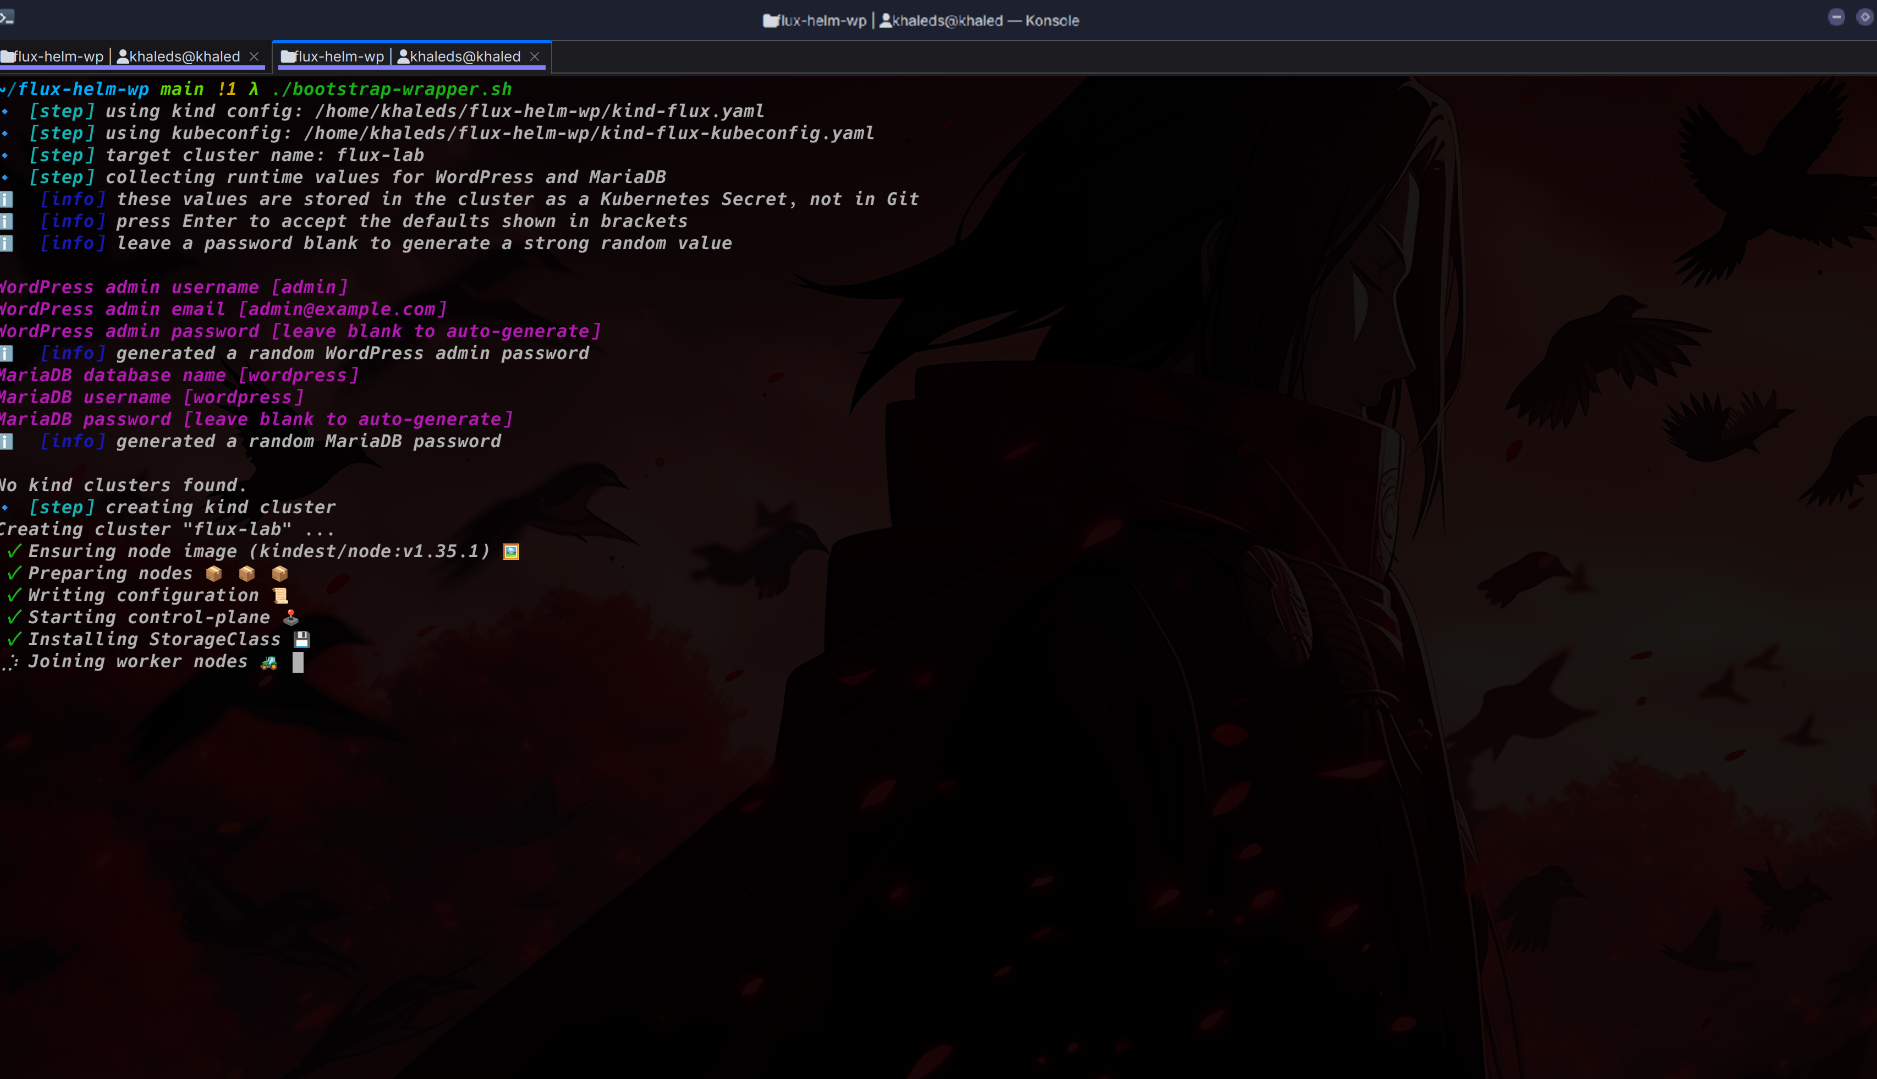
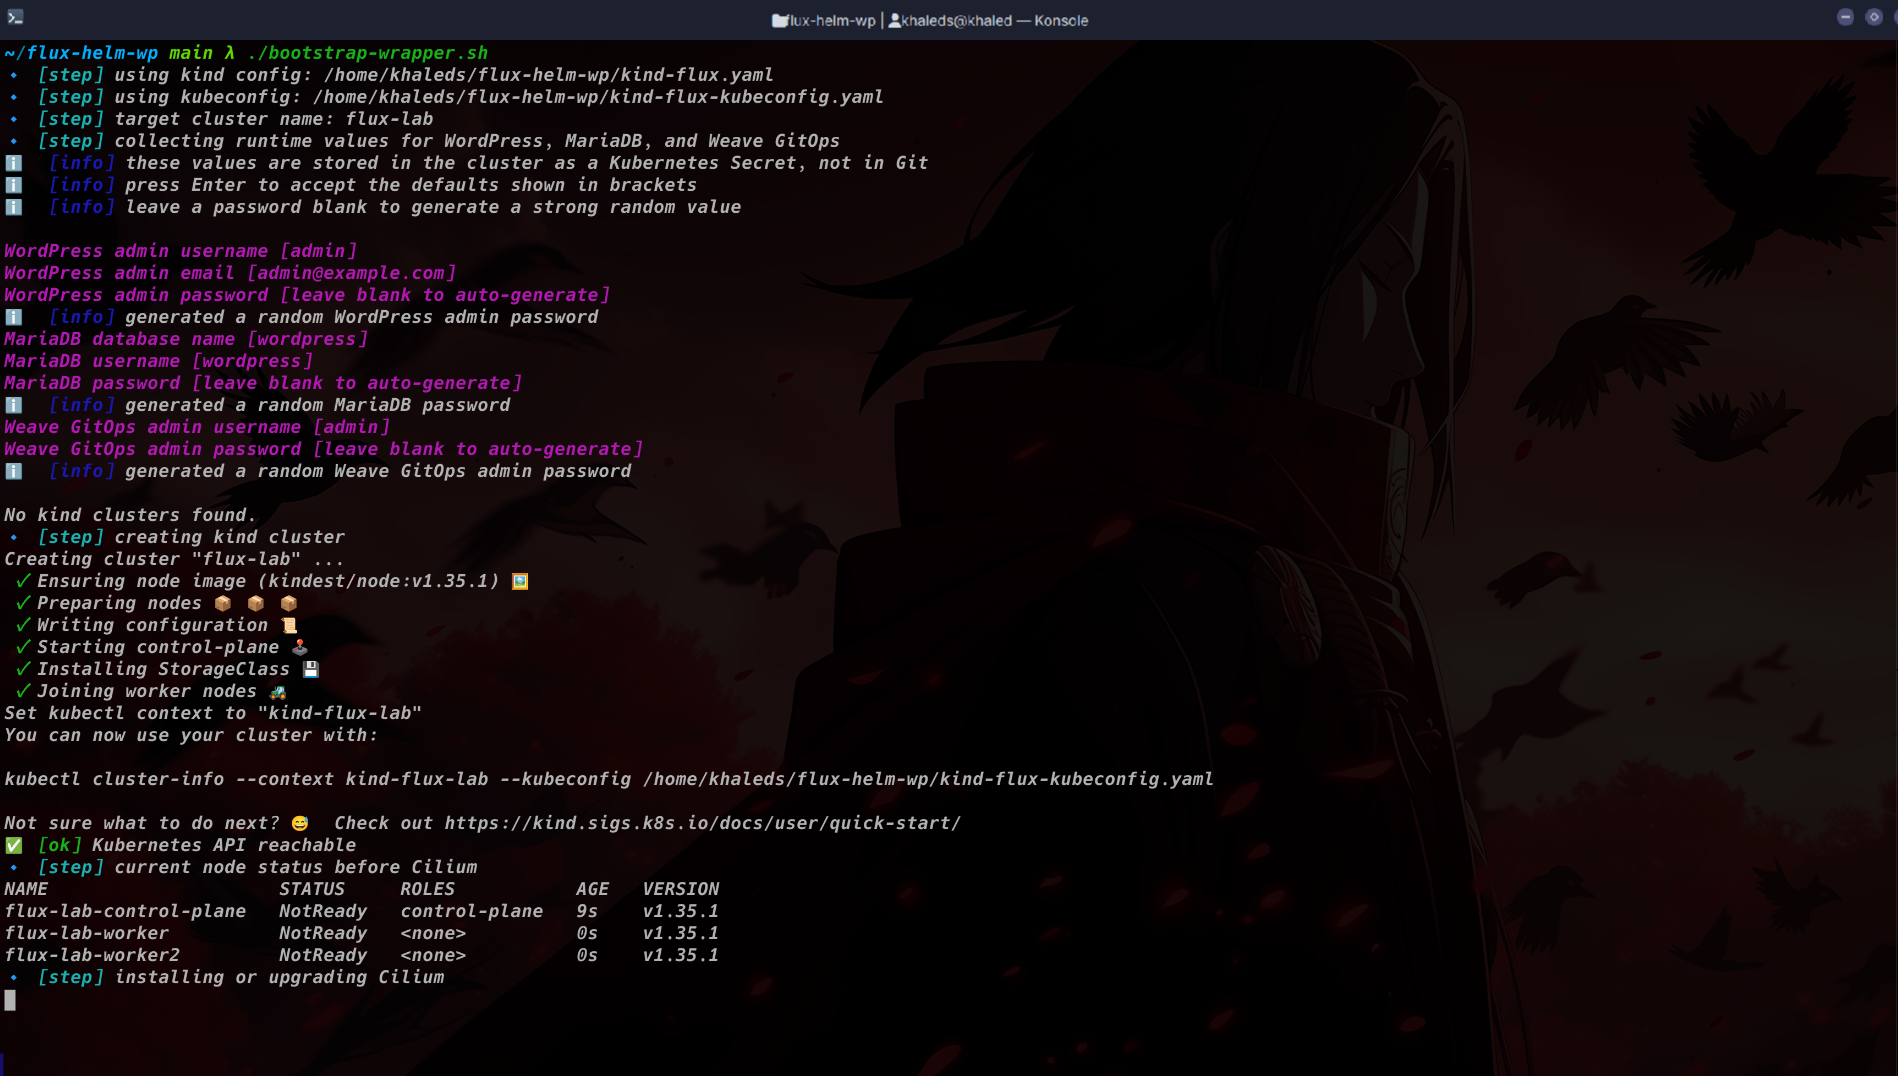
Refactor code structure for improved readability and maintainability

Changed region(s): [[0.0, 0.0, 1.0, 0.9507], [0.3399, 0.7974, 0.3708, 0.8894]]

diff --git a/README.md b/README.md
@@ -85,11 +85,17 @@ This shows the exact `kubectl` commands used to recover the values later, includ
 
 ![Retrieving credentials from the runtime Secret](assets/image-6.png)
 
-### 7. WordPress admin dashboard after login
+### 7. Weave GitOps OSS applications view after login
 
-This is the final result after visiting `/wp-admin` and logging in with the values stored in `wordpress-runtime-values`.
+This shows the Weave GitOps OSS dashboard after port-forwarding `svc/ww-gitops-weave-gitops` on port `9001` and logging in with the values stored in `weave-gitops-runtime-values`. It gives you a Flux-focused UI view of Kustomizations, sources, and application health.
 
-![WordPress admin dashboard](assets/image-7.png)
+![Weave GitOps OSS applications view](assets/image-7.png)
+
+### 8. WordPress admin dashboard after login
+
+This is the WordPress admin dashboard after visiting `/wp-admin` and logging in with the values stored in `wordpress-runtime-values`.
+
+![WordPress admin dashboard](assets/image-8.png)
 
 ### You forgot the generated password
 
